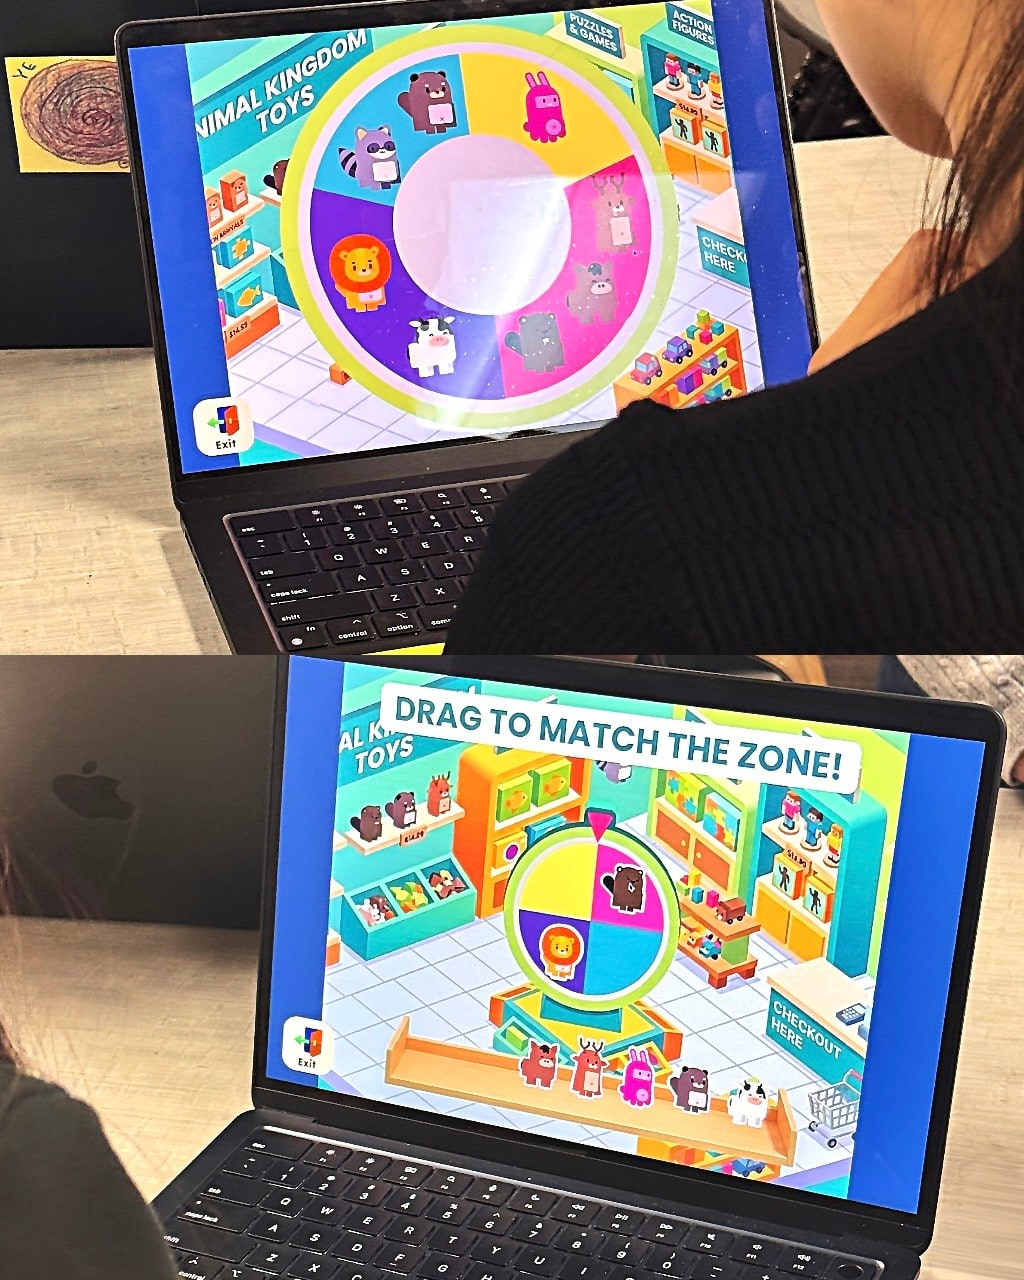
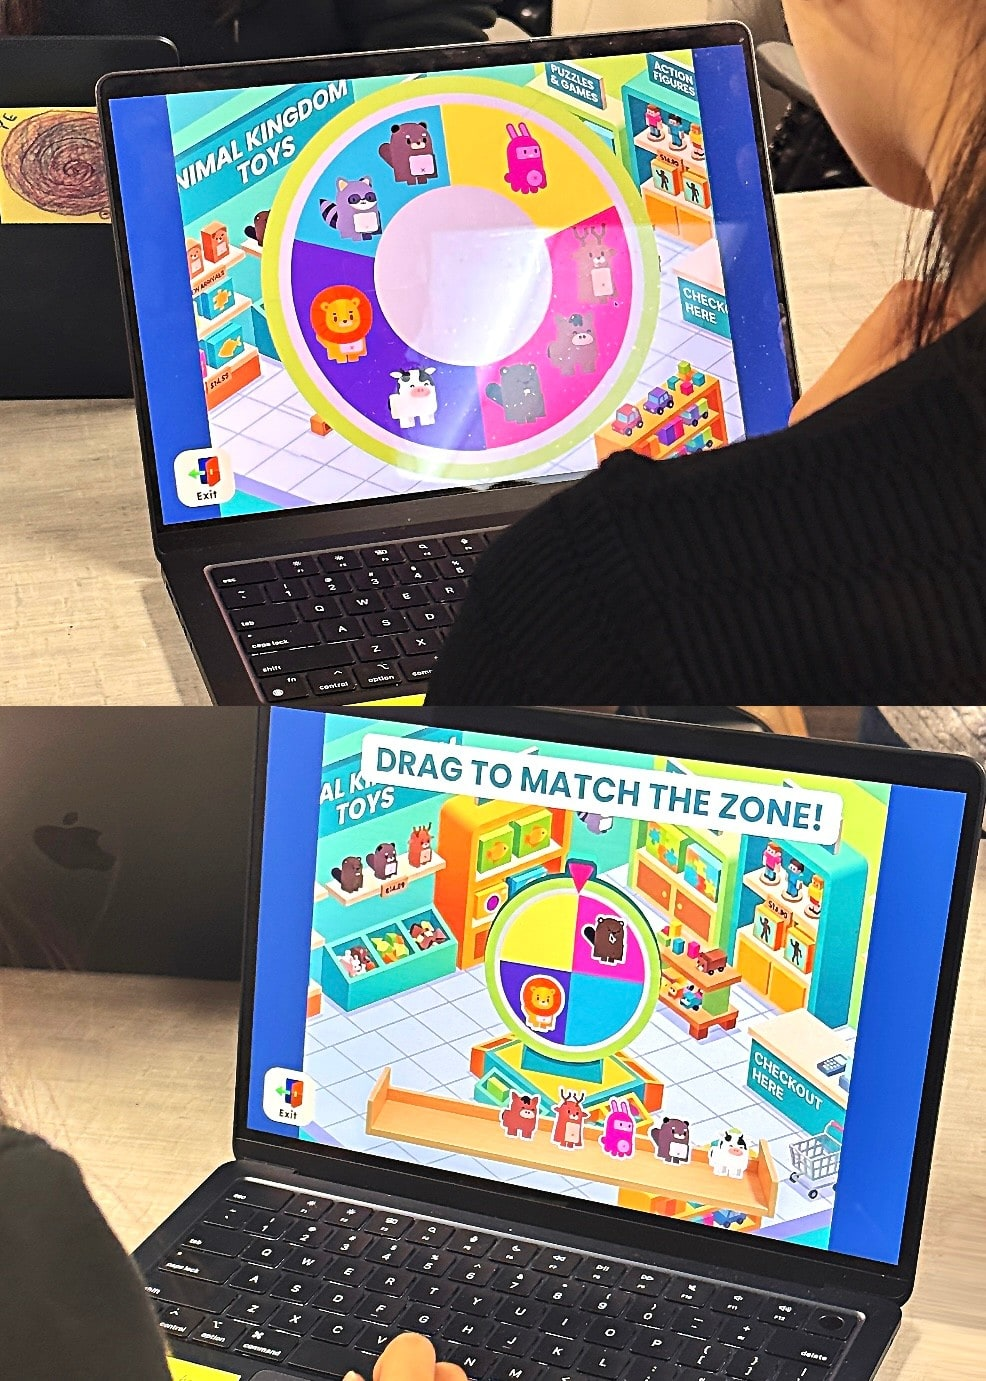
Gallery: photos fill their whole tile; update gallery-01
Claude-Session: https://claude.ai/code/session_016JipU5KkSJDLw1FRNbE3mb

diff --git a/CLAUDE.md b/CLAUDE.md
@@ -256,7 +256,7 @@ Ask me for each asset when the phase that needs it begins.
 - **Where things live:** design tokens in `src/styles/tokens.css`; base styles in `src/styles/global.css`; shared page frame in `src/layouts/BaseLayout.astro`; menu, footer and copy-email button in `src/components/`. Build links with `withBase()` from `src/lib/url.ts`.
 - **Screenshots in this cloud computer:** run `npx astro preview` in the background (pages at http://localhost:4321/) and use the global Playwright with Chromium. For pages that load outside files, launch Chromium with `--proxy-server=$HTTPS_PROXY --proxy-bypass-list=localhost;127.0.0.1`.
 - **Images in content files:** content files give only a file name (e.g. `cover: "cover.jpg"`); `src/lib/media.ts` finds it in `content/images/<folder>/` and the build stops with a clear message if the name is wrong. Case study covers live in the case study's folder; Play pieces in `content/images/play/`. Optional `coverFocus: left|center|right|NN%` in a case study file sets which part of the cover the Home/Work gallery tile keeps when trimming (the case study page always shows the full cover). Optional `tileImage` + `tileAlt` give the gallery tile its own image (4:3 fits the tile exactly; case study tiles and visual-piece tiles are 4:3 at every width). Galactic Guardians: wide 2:1 `cover.jpg` on the case study page, 4:3 `tile.jpg` on Home/Work.
-- **Home & Work gallery (redesign, Ran chose "case study pairs"):** Jakub-style grid from `content/home-gallery.yaml` (items `type` case-study|visual, `study`, `file`, `poster`, `alt`, `fit` cover|contain, `ratio` for placeholders), built by `src/components/WorkGallery.astro` with `gallery/GalleryTile.astro` and `gallery/GalleryCase.astro`; shapes come from the files (`src/lib/gallery.ts`; videos use the poster's shape). Files go in `content/images/gallery/`. Case studies pair up side by side (each ~1.5× a piece's width); the pieces after a pair flow below it in 3 columns (2 on tablets, 1 on phones); before the next pair the last tile of each column grows so the columns end level (media stays whole and centered; nothing is cropped). Pieces are shared between columns to keep columns as even as possible (the same rule runs in the browser). Tiles: #F5F5F5, 8px corners (`--radius-tile`), 10px gaps and page edges (`--grid-gap`, `--grid-edge`). Case study text fades in over a soft gradient on hover (mouse/trackpad on ≥64rem) with "View case study →"; otherwise title + summary always show under the tile. Visual pieces have no text and are never links. Videos load when near the screen and don't play with reduced motion. Home intro line is one quiet body-size line (`introLine` in site.yaml; empty hides it). The old `CaseStudyCard.astro` and the `home:` field in play.yaml are no longer used. The "View" cursor (`src/components/ViewCursor.astro`) appears over anything marked `data-cursor="view"`, only on `(hover: hover) and (pointer: fine)`. Scroll fade-in: add `class="reveal"`.
+- **Home & Work gallery (redesign, Ran chose "case study pairs"):** Jakub-style grid from `content/home-gallery.yaml` (items `type` case-study|visual, `study`, `file`, `poster`, `alt`, `fit` cover|contain, `ratio` for placeholders), built by `src/components/WorkGallery.astro` with `gallery/GalleryTile.astro` and `gallery/GalleryCase.astro`; shapes come from the files (`src/lib/gallery.ts`; videos use the poster's shape). Files go in `content/images/gallery/`. Case studies pair up side by side (each ~1.5× a piece's width); the pieces after a pair flow below it in 3 columns (2 on tablets, 1 on phones); before the next pair the last tile of each column grows so the columns end level (`cover` photos fill the grown tile, edges trimmed; `contain` media stay whole and centered). Pieces are shared between columns to keep columns as even as possible (the same rule runs in the browser). Tiles: #F5F5F5, 8px corners (`--radius-tile`), 10px gaps and page edges (`--grid-gap`, `--grid-edge`). Case study text fades in over a soft gradient on hover (mouse/trackpad on ≥64rem) with "View case study →"; otherwise title + summary always show under the tile. Visual pieces have no text and are never links. Videos load when near the screen and don't play with reduced motion. Home intro line is one quiet body-size line (`introLine` in site.yaml; empty hides it). The old `CaseStudyCard.astro` and the `home:` field in play.yaml are no longer used. The "View" cursor (`src/components/ViewCursor.astro`) appears over anything marked `data-cursor="view"`, only on `(hover: hover) and (pointer: fine)`. Scroll fade-in: add `class="reveal"`.
 - **Case study pages (Phase 4):** `/work/<file-name>/`, from `src/pages/work/[slug].astro`. All content is in the file's front matter: hero fields, then sections `why`, `research`, `insight`, `concept`, `prototype` (`built` / `designed`), `testing` (`before` / `after`), `reflection`, optional `credits` and `notice`. Sections are lists of "parts" built from blocks (heading, label, text, points, pairs, steps, visuals, video, source), rendered by `src/components/case/Part.astro`. `content/case-studies/_TEMPLATE.md` documents every option (files starting with `_` aren't published). `[PLACEHOLDER…]` and `[SOURCE NEEDED]` are highlighted automatically. Section headings and labels live in `site.yaml` under `caseStudy`.
 - **Visual-first case studies (Ran's update, Galactic Guardians):** a case study file with `sections:` uses the visual-first layout instead of the classic fixed sections: each section has a `heading` and `blocks` (image [+ insight/goal/text beside it], `size: small`, `cards` title + image + one line, `gallery` 1 large + 2, `steps` photo row, `screens` app row (title above, caption below, max 230px wide, no added frame; GG app mockups were trimmed of the white band above/below the phone to 454×910 — re-exports should be cropped the same way; 1 row desktop, 2 per row tablet, swipe with peek on phone; groups via block `label`), `before`/`after`, `video`, `note`, `text`+`source`), rendered by `src/components/case/Block.astro` inside stacked `Section`s numbered in order. "Why this project" and "Reflection" are optional there. Each redesign was verified by comparing the other pages' built HTML before and after. `_TEMPLATE.md` now documents the visual-first format. Rules: images lead; ≤2 short sentences per text; captions ≤12 words; never add animation beyond existing fades. GG images are labeled grey placeholders with the final file names, so Ran replaces them one-for-one. Buddy's Adventure Island is also visual-first (3 sections + `credits`, shown as small text after the last section). Extra block options added for it: `insight` may be a list of lines; `sideBySide: true` on a gallery puts all images in one equal row, with an optional shared `caption`; before/after panels use full width for landscape images. A gallery of lead + exactly one image shows both full width. CTE: Every Hit Matters is visual-first too (4 sections); blocks added for it: `statement` (big key message), `quotes` (text + credit, 2 columns on wide screens), `tiles` (title + one line cards, no image). The hero `notice` now shows as small muted text directly under the cover image. Brand safety for CTE: no NHL/team logos or real mascots; flag any logo in Ran's images and ask before using it. WonderWeave is visual-first too (4 sections); added an optional block `label` (small heading above a block, e.g. "Design focus"). Privacy for WonderWeave: no parent names/photos/ages, no children's names or universities, "names changed for privacy" in interview quote credits, psychotherapist credited by role, label stock/illustrative people. All four case studies now use the visual-first layout; the classic layout code (`Part.astro` and the classic branch in `[slug].astro`) is unused but kept for now.
 - **Play and About (Phase 5):** `src/pages/play.astro` shows every `play.yaml` piece in file order as square tiles (2 columns, 3 on wide screens), whole pieces (`fit="contain"` on `VisualPiece`) on the soft grey tile, hover labels, never links, 9 placeholders while the list is empty. `src/pages/about.astro`: intro (plain text after the second `---` in `about.md`, placeholders highlighted), a "Download résumé" button (`resumeButton`), email + copy button, and a timeline (`timelineHeading`, entries newest first) — thin line with dots; on wide screens dates sit right-aligned in their own column. GIF → MP4 conversion needs ffmpeg: ask Ran before installing. Ran finalized the About timeline: 7 entries (added Fashion Editorial Intern, Hearst China | SuperELLE Magazine, Jul–Sep 2023) — this replaces the 6-entry table in the brief. The Play page has no visible title (visually hidden h1) and the grid starts just under the menu. The gallery lives in `src/components/WorkGallery.astro`, shared by Home (intro line + gallery; intro top space `--space-8`) and a Work page `src/pages/work/index.astro` (the menu's "Work" link → `/work/`): no intro, hidden h1, grid starts just under the menu with the same `--space-5` gap as Play.

diff --git a/OPEN-ITEMS.md b/OPEN-ITEMS.md
@@ -89,7 +89,7 @@ Tick an item (`[x]`) when it's done.
 - [ ] Figma exports for each case study (one folder per project)
 - [ ] A cover image for each case study (+ `cover` and `coverAlt` in its file) — shown large on Home
 - [ ] Home & Work gallery: fill the 8 visual piece slots in `content/home-gallery.yaml` — upload each file to `content/images/gallery/`, then replace the slot's `file` and `alt` (and set `fit`: cover or contain; add `poster` for videos):
-  - [x] `gallery-01` — added (toy-store game on two laptops, 1024 × 1280 px)
+  - [x] `gallery-01` — added (toy-store game on two laptops, 986 × 1381 px)
   - [ ] `gallery-02` (1/1, contain)
   - [ ] `gallery-03` (3/4, cover)
   - [ ] `gallery-04` (16/9, cover)
